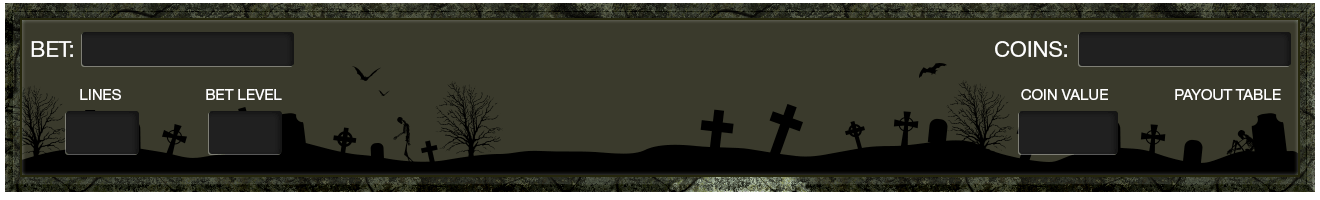
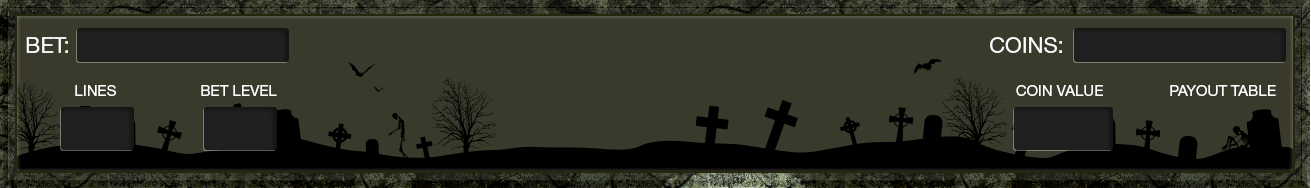
buttons fix

diff --git a/markup/modules/Balance/Balance.js b/markup/modules/Balance/Balance.js
@@ -8,7 +8,7 @@ export let balance = (function () {
     function drawBalanceContainer(container, game) {
         let d = 0.01 * model.el('game').width;
         let D = 0.02 * model.el('game').width;
-        console.log(d, D);
+        // console.log(d, D);
         const footerBGDown = game.add.graphics(0, 0, container);
         footerBGDown.beginFill(0x000000).drawRect(0, game.world.height - 30, game.world.width, 30);
 
@@ -82,84 +82,118 @@ export let balance = (function () {
         balanceData.currency = model.data('initBalance').Currency;
 
         let mainContainer = model.el('mainContainer');
+        let balanceFont;
+
+        if (model.flag('mobile')) {
+            balanceFont = '18px Helvetica, Arial';
+        } else {
+            balanceFont = '24px Helvetica, Arial';
+        }
 
         balanceText.coinsCashText = game.add.text(
             0,
             game.world.height - 25,
             'Cash:',
-            {font: '18px Helvetica, Arial', fill: '#888888', align: 'center'},
+            {font: balanceFont, fill: '#888888', align: 'center'},
             bottomBalanceContainer);
         balanceText.coinsCash = game.add.text(
             balanceText.coinsCashText.x + balanceText.coinsCashText.width + d,
             game.world.height - 25,
             currencySymbol + balanceData.coinsCash,
-            {font: '18px Helvetica, Arial', fill: '#dddddd', align: 'center'},
+            {font: balanceFont, fill: '#dddddd', align: 'center'},
             bottomBalanceContainer);
         balanceText.betCashText = game.add.text(
             balanceText.coinsCash.x + balanceText.coinsCash.width + D,
             game.world.height - 25,
             'Bet:',
-            {font: '18px Helvetica, Arial', fill: '#888888', align: 'center'},
+            {font: balanceFont, fill: '#888888', align: 'center'},
             bottomBalanceContainer);
         balanceText.betCash = game.add.text(
             balanceText.betCashText.x + balanceText.betCashText.width + d,
             game.world.height - 25,
             currencySymbol + balanceData.betCash,
-            {font: '18px Helvetica, Arial', fill: '#dddddd', align: 'center'},
+            {font: balanceFont, fill: '#dddddd', align: 'center'},
             bottomBalanceContainer);
         balanceText.winCashText = game.add.text(
             balanceText.betCash.x + balanceText.betCash.width + D,
             game.world.height - 25,
             'Win:',
-            {font: '18px Helvetica, Arial', fill: '#888888', align: 'center'},
+            {font: balanceFont, fill: '#888888', align: 'center'},
             bottomBalanceContainer);
         balanceText.winCash = game.add.text(
             balanceText.winCashText.x + balanceText.winCashText.width + d,
             game.world.height - 25,
             currencySymbol + balanceData.winCash,
-            {font: '18px Helvetica, Arial', fill: '#dddddd', align: 'center'},
+            {font: balanceFont, fill: '#dddddd', align: 'center'},
             bottomBalanceContainer);
 
         let bottomLineWidth = balanceText.coinsCashText.width + d + balanceText.coinsCash.width + D + balanceText.betCashText.width + d + balanceText.betCash.width + D + balanceText.winCashText.width + d + balanceText.winCash.width;
 
         bottomBalanceContainer.x = game.world.centerX - bottomLineWidth / 2;
-        console.log(bottomBalanceContainer.x);
+        // console.log(bottomBalanceContainer.x);
 
+        if (model.flag('mobile')) {
+            balanceText.coinsSumText = game.add.text(
+                0,
+                game.world.height - 65,
+                'Coins:',
+                {font: '24px Helvetica, Arial', fill: '#dddddd', align: 'center'},
+                topBalanceContainer);
 
-        balanceText.coinsSumText = game.add.text(
-            0,
-            game.world.height - 65,
-            'Coins:',
-            {font: '24px Helvetica, Arial', fill: '#dddddd', align: 'center'},
-            topBalanceContainer);
+            balanceText.coinsSum = game.add.text(
+                balanceText.coinsSumText.x + balanceText.coinsSumText.width + d,
+                game.world.height - 65,
+                balanceData.coinsSum,
+                {font: '25px Helvetica, Arial', fill: '#e8b075', align: 'center'},
+                topBalanceContainer);
 
-        balanceText.coinsSum = game.add.text(
-            balanceText.coinsSumText.x + balanceText.coinsSumText.width + d,
-            game.world.height - 65,
-            balanceData.coinsSum,
-            {font: '25px Helvetica, Arial', fill: '#e8b075', align: 'center'},
-            topBalanceContainer);
+            balanceText.betSumText = game.add.text(
+                balanceText.coinsSum.x + balanceText.coinsSum.width + D,
+                game.world.height - 65,
+                'Bet:',
+                {font: '24px Helvetica, Arial', fill: '#dddddd', align: 'center'},
+                topBalanceContainer);
 
-        balanceText.betSumText = game.add.text(
-            balanceText.coinsSum.x + balanceText.coinsSum.width + D,
-            game.world.height - 65,
-            'Bet:',
-            {font: '24px Helvetica, Arial', fill: '#dddddd', align: 'center'},
-            topBalanceContainer);
+            balanceText.betSum = game.add.text(
+                balanceText.betSumText.x + balanceText.betSumText.width + d,
+                game.world.height - 65,
+                balanceData.betSum,
+                {font: '25px Helvetica, Arial', fill: '#e8b075', align: 'center'},
+                topBalanceContainer);
 
-        balanceText.betSum = game.add.text(
-            balanceText.betSumText.x + balanceText.betSumText.width + d,
-            game.world.height - 65,
-            balanceData.betSum,
-            {font: '25px Helvetica, Arial', fill: '#e8b075', align: 'center'},
-            topBalanceContainer);
+            balanceText.coinsSum.setShadow(0, 0, '#e8b075', 2);
+            balanceText.betSum.setShadow(0, 0, '#e8b075', 2);
 
-        balanceText.coinsSum.setShadow(0, 0, '#e8b075', 2);
-        balanceText.betSum.setShadow(0, 0, '#e8b075', 2);
+            let topLineWidth = balanceText.coinsSumText.width + d + balanceText.coinsSum.width + D + balanceText.betSumText.width + d + balanceText.betSum.width;
 
-        let topLineWidth = balanceText.coinsSumText.width + d + balanceText.coinsSum.width + D + balanceText.betSumText.width + d + balanceText.betSum.width;
+            topBalanceContainer.x = game.world.centerX - topLineWidth / 2;
+        } else {
+            balanceText.coinsSum = game.add.text(
+                mainContainer.x + 410,
+                mainContainer.height + 2,
+                balanceData.coinsSum,
+                {font: 'normal 32px Helvetica', fill: '#e8b075', align: 'center'},
+                container);
+            balanceText.coinsValue = game.add.text(
+                mainContainer.x + 1330,
+                mainContainer.height + 85,
+                balanceData.coinsValue,
+                {font: 'normal 32px Helvetica', fill: '#e8b075', align: 'center'},
+                container);
+            balanceText.betSum = game.add.text(
+                mainContainer.x + 1460,
+                mainContainer.height + 2,
+                balanceData.betSum,
+                {font: 'normal 32px Helvetica', fill: '#e8b075', align: 'center'},
+                container);
+            balanceText.betValue = game.add.text(
+                mainContainer.x + 530,
+                mainContainer.height + 85,
+                balanceData.betValue,
+                {font: 'normal 32px Helvetica', fill: '#e8b075', align: 'center'},
+                container);
+        }
 
-        topBalanceContainer.x = game.world.centerX - topLineWidth / 2;
 
         model.data('balanceText', balanceText);
         model.data('balanceData', balanceData);
@@ -187,12 +221,12 @@ export let balance = (function () {
         let balanceText = model.data('balanceText');
         // console.log(balanceText.coinsValue);
 
-        // if (balanceText.coinsValue.text !== balanceData.coinsValue) {
-        //     balanceText.coinsValue.text = balanceData.coinsValue;
-        // }
-        // if (balanceText.betValue.text !== balanceData.betValue) {
-        //     balanceText.betValue.text = balanceData.betValue;
-        // }
+        if (balanceText.coinsValue.text !== balanceData.coinsValue) {
+            balanceText.coinsValue.text = balanceData.coinsValue;
+        }
+        if (balanceText.betValue.text !== balanceData.betValue) {
+            balanceText.betValue.text = balanceData.betValue;
+        }
 
         if (balanceText.coinsSum.text !== balanceData.coinsSum) {
             balanceText.coinsSum.text = balanceData.coinsSum;

diff --git a/markup/modules/Buttons/Buttons.js b/markup/modules/Buttons/Buttons.js
@@ -51,15 +51,15 @@ export let buttons = (function () {
     }
 
     function drawDesktopPanel(container, game, mainContainer) {
-        let panelBG = game.add.sprite(game.world.centerX, mainContainer.height + 70, 'ui', null, container);
+        let panelBG = game.add.sprite(game.world.centerX - 10, mainContainer.height + 70, 'ui', null, container);
         panelBG.anchor.set(0.5);
 
-        let lines = game.add.text(mainContainer.x + 385, mainContainer.height + 85, '10', {font: 'normal 32px Helvetica', fill: '#e8b075', align: 'center'}, container);
-        let info = game.add.button(mainContainer.x + 1500, mainContainer.height + 80, 'deskButtons', actionOnClick, this, 'info.png', 'info.png', 'info.png', container);
-        let betLevelPlus = game.add.button(mainContainer.x + 575, mainContainer.height + 82, 'deskButtons', actionOnClick, this, 'plus.png', 'plus.png', 'plus.png', container);
-        let betLevelMinus = game.add.button(mainContainer.x + 475, mainContainer.height + 81, 'deskButtons', actionOnClick, this, 'minus.png', 'minus.png', 'minus.png', container);
-        let coinLevelPlus = game.add.button(mainContainer.x + 1410, mainContainer.height + 82, 'deskButtons', actionOnClick, this, 'plus.png', 'plus.png', 'plus.png', container);
-        let coinLevelMinus = game.add.button(mainContainer.x + 1285, mainContainer.height + 81, 'deskButtons', actionOnClick, this, 'minus.png', 'minus.png', 'minus.png', container);
+        let lines = game.add.text(container.x + 375, mainContainer.height + 85, '10', {font: 'normal 32px Helvetica', fill: '#e8b075', align: 'center'}, container);
+        let info = game.add.button(container.x + 1490, mainContainer.height + 80, 'deskButtons', actionOnClick, this, 'info.png', 'info.png', 'info.png', container);
+        let betLevelPlus = game.add.button(container.x + 565, mainContainer.height + 82, 'deskButtons', actionOnClick, this, 'plus.png', 'plus.png', 'plus.png', container);
+        let betLevelMinus = game.add.button(container.x + 465, mainContainer.height + 81, 'deskButtons', actionOnClick, this, 'minus.png', 'minus.png', 'minus.png', container);
+        let coinLevelPlus = game.add.button(container.x + 1400, mainContainer.height + 82, 'deskButtons', actionOnClick, this, 'plus.png', 'plus.png', 'plus.png', container);
+        let coinLevelMinus = game.add.button(container.x + 1275, mainContainer.height + 81, 'deskButtons', actionOnClick, this, 'minus.png', 'minus.png', 'minus.png', container);
 
         let spinButtonDesk = game.add.button(0, mainContainer.height + 70, 'deskButtons', actionOnClick, this, 'spinOn.png', 'spin.png', 'spinOn.png', container);
         spinButtonDesk.anchor.set(0.5);
